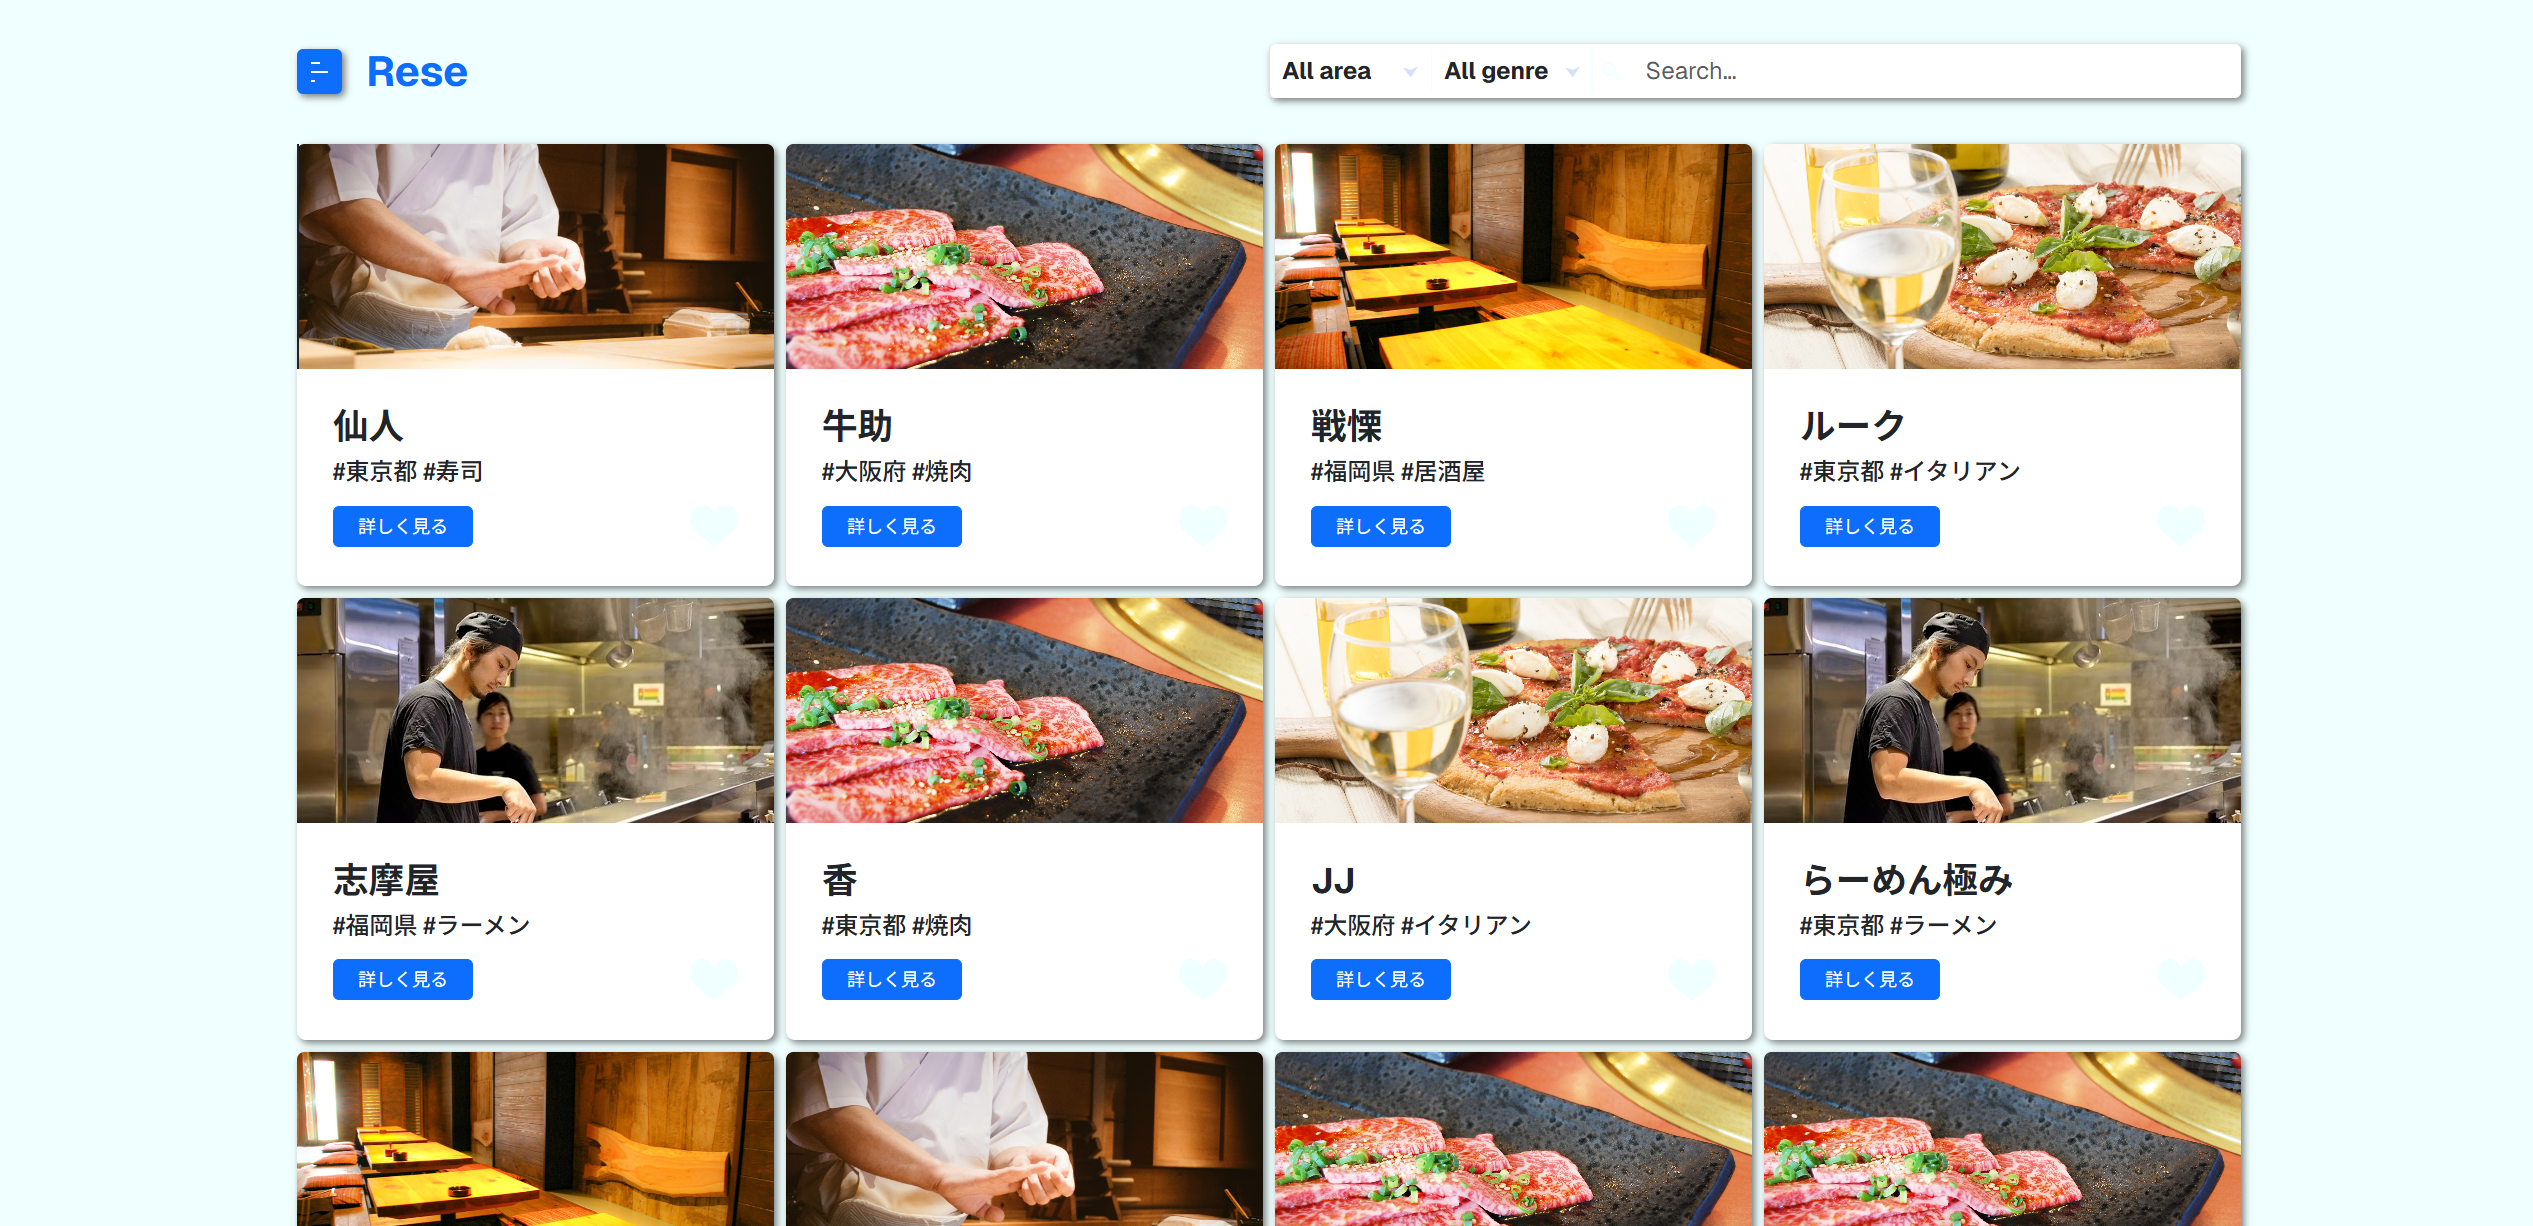
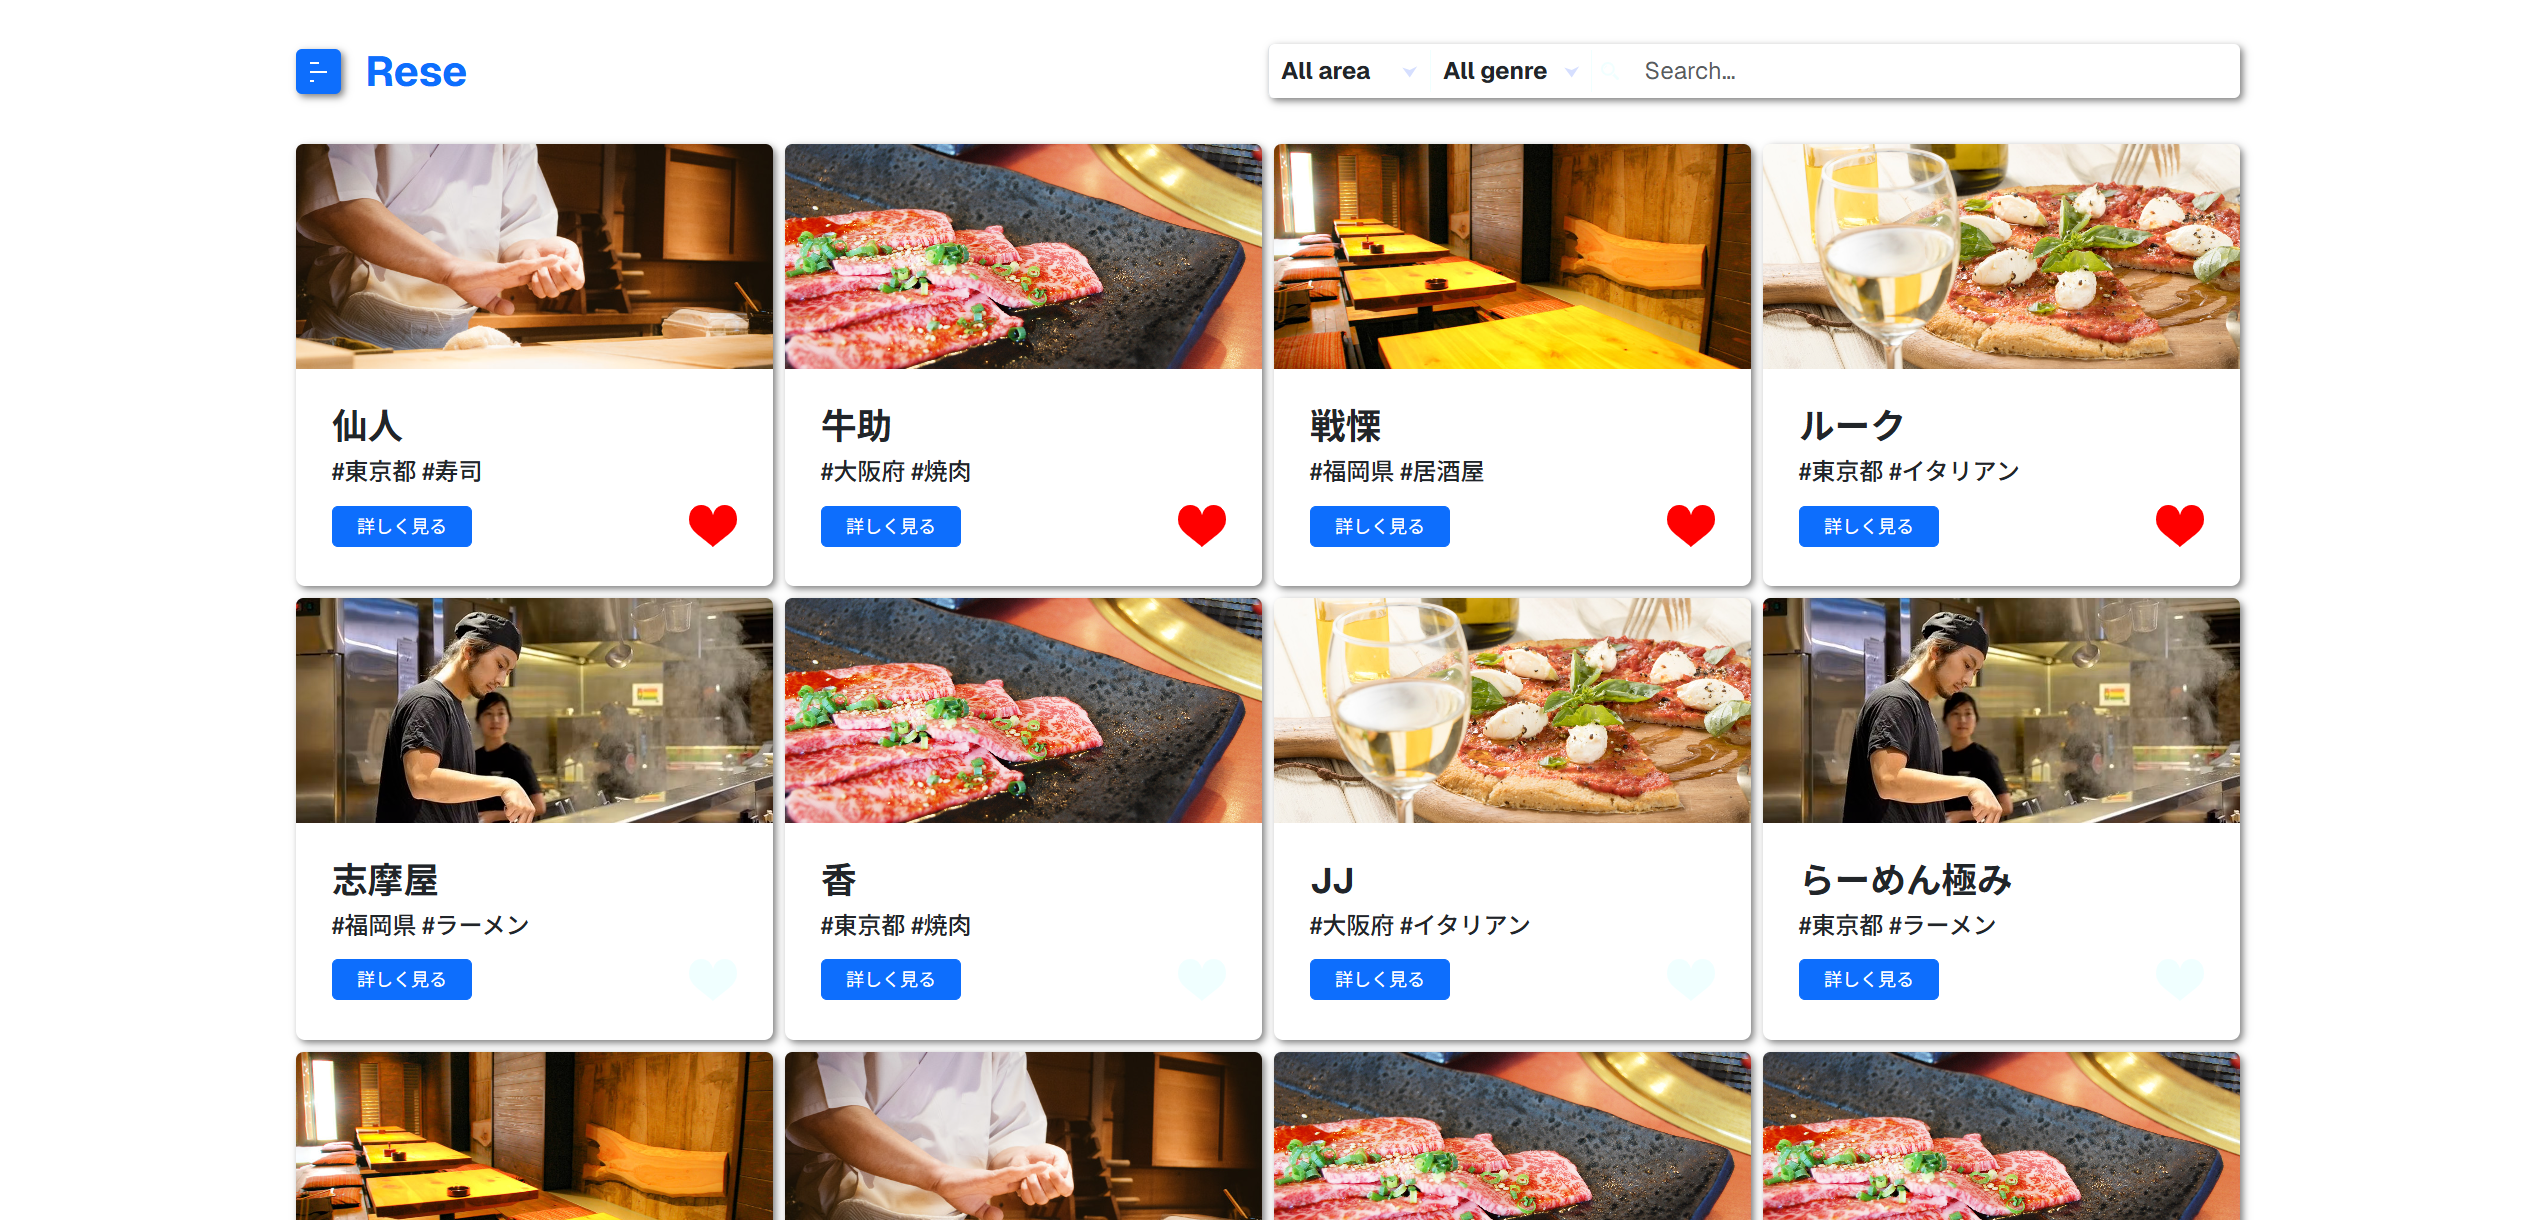
評価後の修正

diff --git a/src/public/css/custom.css b/src/public/css/custom.css
@@ -53,8 +53,8 @@
     }
 }
 
-.bg-f0ffff {
-    background-color: #f0ffff;
+.bg-eee {
+    background-color: #eeeeee;
 }
 
 .h-1px {

diff --git a/src/resources/views/mypage.blade.php b/src/resources/views/mypage.blade.php
@@ -37,9 +37,14 @@
                                             <input type="date" value="{{ $reservation->date->format('Y-m-d') }}" id="date" name="date"
                                                 class="border-0 show-text fw-normal bg-primary text-white dateInput" min="{{ \Carbon\Carbon::today()->toDateString() }}">
                                         </td>
-                                        @error('date')
-                                            <p class="text-danger text-outline">{{ $message }}</p>
-                                        @enderror
+                                    </tr>
+                                    <tr>
+                                        <th></th>
+                                        <td>
+                                            @error('date')
+                                                <p class="text-danger text-outline">{{ $message }}</p>
+                                            @enderror
+                                        </td>
                                     </tr>
                                     <tr>
                                         <th class="col-4 col-md-5 col-lg-4 col-xl-3 py-1 py-xl-2 show-text fw-normal">Time</th>
@@ -60,9 +65,14 @@
                                                 <input type="hidden" name="time" class="timeInput">
                                             </div>
                                         </td>
-                                        @error('time')
-                                            <p class="text-danger text-outline">{{ $message }}</p>
-                                        @enderror
+                                    </tr>
+                                    <tr>
+                                        <th></th>
+                                        <td>
+                                            @error('time')
+                                                <p class="text-danger text-outline">{{ $message }}</p>
+                                            @enderror
+                                        </td>
                                     </tr>
                                     <tr>
                                         <th class="col-4 col-md-5 col-lg-4 col-xl-3 py-1 py-xl-2 show-text fw-normal">Number</th>
@@ -82,9 +92,14 @@
                                                 <input type="hidden" name="number" class="numberInput">
                                             </div>
                                         </td>
-                                        @error('number')
-                                            <p class="text-danger text-outline">{{ $message }}</p>
-                                        @enderror
+                                    </tr>
+                                    <tr>
+                                        <th></th>
+                                        <td>
+                                            @error('number')
+                                                <p class="text-danger text-outline">{{ $message }}</p>
+                                            @enderror
+                                        </td>
                                     </tr>
                                 </table>
                                 <div class="d-flex justify-content-between">

diff --git a/src/app/Http/Controllers/OwnerController.php b/src/app/Http/Controllers/OwnerController.php
@@ -35,7 +35,7 @@ class OwnerController extends Controller
     public function store(Request $request)
     {
         $owner = Auth::guard('owner')->user();
-        $shop = $request->only([
+        $shopData = $request->only([
             'name',
             'area_id',
             'genre_id',
@@ -44,12 +44,13 @@ class OwnerController extends Controller
             'close_time',
         ]);
 
-        $image = $request->file('image')
-            ->store('shop-img', env('FILESYSTEM_DISK', 'public'));
-        $shop['image'] = basename($image);
-        $shop['owner_id'] = $owner->id;
+        $image = $request->file('image');
+        $disk = config('filesystems.default');
+        $path = Storage::disk($disk)->putFile('shop-img', $image, 'public');
+        $shopData['image'] = basename($path);
+        $shopData['owner_id'] = $owner->id;
 
-        Shop::create($shop);
+        Shop::create($shopData);
 
         return redirect()->route('owner-index')
             ->with('message', '店舗を登録しました');
@@ -101,25 +102,30 @@ class OwnerController extends Controller
 
         $shopData = $request->only([
             'name',
-            'area_id',
-            'genre_id',
             'detail',
-            'open_time',
-            'close_time',
         ]);
 
-        $image = $request->file('image')
-            ->store('shop-img', env('FILESYSTEM_DISK', 'public'));
-        $shopData['image'] = basename($image);
-        if ($shop->image) {
-            $image = 'shop-img/' . $shop->image;
-            Storage::disk(env('FILESYSTEM_DISK', 'public'))->delete($image);
+        $shopData['area_id'] = $request->area_id ?? $shop->area_id;
+        $shopData['genre_id'] = $request->genre_id ?? $shop->genre_id;
+        $shopData['open_time'] = $request->open_time ?? $shop->open_time;
+        $shopData['close_time'] = $request->close_time ?? $shop->close_time;
+
+        if ($request->hasFile('image')) {
+            $image = $request->file('image');
+            $disk = config('filesystems.default');
+            $path = Storage::disk($disk)->putFile('shop-img', $image, 'public');
+            $shopData['image'] = basename($path);
+
+            if ($shop->image) {
+                $image = 'shop-img/' . $shop->image;
+                Storage::disk($disk)->delete($image);
+            }
         }
 
         $shop->update($shopData);
 
         return redirect()->route('owner-show', [
-            'shop_id' => $shop_id,
+            'shop_id' => $shop->id,
             'tab' => 'edit',
         ])->with([
             'status' => 'success',
@@ -180,7 +186,7 @@ class OwnerController extends Controller
             ]],
             'mode' => 'payment',
             'customer_email' => $reservation->user->email,
-            'success_url' => route('checkout-success', ['session_id' => '{CHECKOUT_SESSION_ID}']),
+            'success_url' => route('checkout-success') . '?session_id={CHECKOUT_SESSION_ID}',
             'metadata' => [
                 'reservation_id' => $reservation->id,
             ],

diff --git a/src/resources/views/owner-index.blade.php b/src/resources/views/owner-index.blade.php
@@ -21,13 +21,19 @@
                             </svg>
                         </div>
                         <ul class="custom-menu-show">
-                            @foreach ($shops as $shop)
+                            @forelse ($shops as $shop)
                             <li data-value="{{ $shop->id }}" class="px-2">{{ $shop->name }}</li>
-                            @endforeach
+                            @empty
+                            <li class="px-2">店舗がありません</li>
+                            @endforelse
                         </ul>
                     </div>
                     <div class="text-end mt-2">
-                        <a href="{{ route('owner-show', ['shop_id' => $shop->id]) }}" class="btn btn-primary rounded-1 px-2 px-xl-3 btn-sm">選択</a>
+                        @if (isset($shop))
+                            <a href="{{ route('owner-show', ['shop_id' => $shop->id]) }}" class="btn btn-primary rounded-1 px-2 px-xl-3 btn-sm">選択</a>
+                        @else
+                            <span class="btn btn-secondary rounded-1 px-2 px-xl-3 btn-sm disabled">店舗がまだ登録されていません</span>
+                        @endif
                     </div>
                     <p class="form-text mt-4 mb-0">店舗選択後に、店舗情報の更新、予約情報の確認が可能です</p>
                 </div>
@@ -35,7 +41,7 @@
         </div>
         <div class="col-md-7">
             <h3 class="fs-5 fw-bold mb-3 mt-md-0 mt-5">新規店舗情報作成</h3>
-            <x-form title="New Shop" enctype="enctype='multipart/form-data'" route="owner-store" buttonText="作成">
+            <x-form title="New Shop" enctype="multipart/form-data" route="owner-store" buttonText="作成">
                 <div class="d-flex align-items-center col-10 mt-3">
                     <label for="name" class="font-bold col-3">Name</label>
                     <input type="text" name="name" id="name" placeholder="Shop Name" class="border-0 border-bottom border-black col-9">

diff --git a/src/resources/views/owner-show.blade.php b/src/resources/views/owner-show.blade.php
@@ -109,7 +109,7 @@
         </div>
         <div class="tab-pane fade {{ $activeTab === 'edit' ? 'show active' : '' }}" id="edit">
             <div class="d-flex justify-content-center">
-                <x-form title="Edit Shop" enctype="enctype='multipart/form-data'" route="owner-update" params="['shop_id' => $shop->id]" buttonText="更新" class="mt-4 col-md-8 col-12">
+                <x-form title="Edit Shop" enctype="multipart/form-data" route="owner-update" :params="['shop_id' => $shop->id]" buttonText="更新" class="mt-4 col-md-8 col-12">
                     @method('PATCH')
                     <div class="d-flex align-items-center col-10 mt-3">
                         <label for="name" class="font-bold col-3">Name</label>
@@ -194,7 +194,7 @@
                     </div>
                     <div class="d-flex col-10 mt-3 flex-column gap-2">
                         <label for="image" class="col-3">Image</label>
-                        <img src="{{ $shop->image_url }}" class="w-100 my-sm-4 my-3" id="imagePreview">
+                        <img src="{{ Storage::url('shop-img/' . $shop->image) }}" class="w-100 my-sm-4 my-3" id="imagePreview">
                         <input type="file" name="image" id="image" class="show-text fw-normal" accept="image/*">
                     </div>
                     <div class="d-flex col-10 mt-3 flex-column gap-2">

diff --git a/src/resources/views/show.blade.php b/src/resources/views/show.blade.php
@@ -10,7 +10,7 @@
                 </div>
                 <h2 class="m-0 fw-bold fs-5">{{ $shop->name }}</h2>
             </div>
-            <img src="{{ $shop->image_url }}" class="w-100 my-sm-4 my-3">
+            <img src="{{ Storage::url('shop-img/' . $shop->image) }}" class="w-100 my-sm-4 my-3">
             <p class="mb-0 show-text">#{{ $shop->area->name }}
                 <span>#{{ $shop->genre->name }}</span>
             </p>
@@ -20,6 +20,7 @@
             <div class="card bg-primary text-white position-absolute w-100 card-position">
             <form action="{{ route('reservation') }}" method="post">
                 @csrf
+                <input type="hidden" name="shop_id" value="{{ $shop->id }}">
                 <div class="card-body p-lg-4">
                     <h2 class="card-title fs-5 fw-bold mb-3 mb-lg-4">予約</h2>
                     <div class="mb-3">

diff --git a/src/app/Models/Shop.php b/src/app/Models/Shop.php
@@ -82,17 +82,4 @@ class Shop extends Model
     {
         return $user->likes()->where('shop_id', $this->id)->exists();
     }
-
-    public function getImageUrlAttribute()
-    {
-        if (!$this->image) return null;
-        $disk = in_array(app()->environment(), ['local', 'testing']) ? 'public' : config('filesystems.cloud');
-
-        try {
-            return Storage::disk($disk)->url('shop-img/' . $this->image);
-        } catch (\Exception $e) {
-            Log::error('Storage URL生成エラー: ' . $e->getMessage());
-            return null;
-        }
-    }
 }

diff --git a/src/resources/views/review.blade.php b/src/resources/views/review.blade.php
@@ -2,7 +2,7 @@
 
 @section('content')
 <div class="container d-flex justify-content-center align-items-center py-5">
-    <x-form title="Review" route="review-post" params="['reservation_id' => $reservation->id]"
+    <x-form title="Review" route="review-post" :params="['reservation_id' => $reservation->id]"
         class="col-12 col-sm-10 col-md-6 col-xl-5 mt-md-2 mt-lg-5" buttonText="送信">
         <div class="card col-10 my-3">
             <div class="text-start card-body table-bg text-white rounded-1 shadow-right-bottom">

diff --git a/src/resources/views/components/form.blade.php b/src/resources/views/components/form.blade.php
@@ -8,7 +8,7 @@
 ])
 <div class="rounded-1 shadow-right-bottom bg-white {{ $class }}">
     <p class="bg-primary text-white p-3 fs-5 rounded-top-1 mb-2">{{ $title }}</p>
-    <form action="{{ route($route, $params) }}" method="POST" class="d-flex flex-column align-items-center" {{ $enctype }}>
+    <form action="{{ route($route, $params) }}" method="POST" class="d-flex flex-column align-items-center" @if($enctype) enctype="{{ $enctype }}" @endif>
         @csrf
         {{ $slot }}
         <div class="text-end px-2 py-4 col-11">

diff --git a/src/resources/views/components/card.blade.php b/src/resources/views/components/card.blade.php
@@ -1,7 +1,7 @@
 @props(['shop', 'userLikes'])
 <div class="col">
     <div class="card shadow-right-bottom border-0 col">
-        <img src="{{ $shop->image_url }}" class="card-img">
+        <img src="{{ Storage::url('shop-img/' . $shop->image) }}" class="card-img">
         <div class="card-body p-xl-4">
             <h5 class="fw-bold mb-1 fs-1_39vw">{{ $shop->name }}</h5>
             <p class="mb-0 fw-medium fs-0_98vw">#{{ $shop->area->name }}

diff --git a/src/resources/views/layouts/app.blade.php b/src/resources/views/layouts/app.blade.php
@@ -18,7 +18,7 @@
     <link rel="stylesheet" href="{{ asset('css/custom.css') }}">
 </head>
 
-<body class="bg-f0ffff font-geist">
+<body class="bg-eee font-geist">
     <header class="container d-md-flex justify-content-between align-items-center py-md-4 py-2">
         <nav class="navbar">
             <div class="d-flex align-items-center gap-3">

diff --git a/src/resources/views/components/input.blade.php b/src/resources/views/components/input.blade.php
@@ -23,8 +23,7 @@
         value="{{ old($name, $value) }}"
         class="border-0 border-bottom border-black {{ $inputClass }}"
     >
-
-    @error($name)
-        <p class="text-danger mt-2">{{ $message }}</p>
-    @enderror
 </div>
+@error($name)
+    <p class="text-danger mt-2">{{ $message }}</p>
+@enderror
